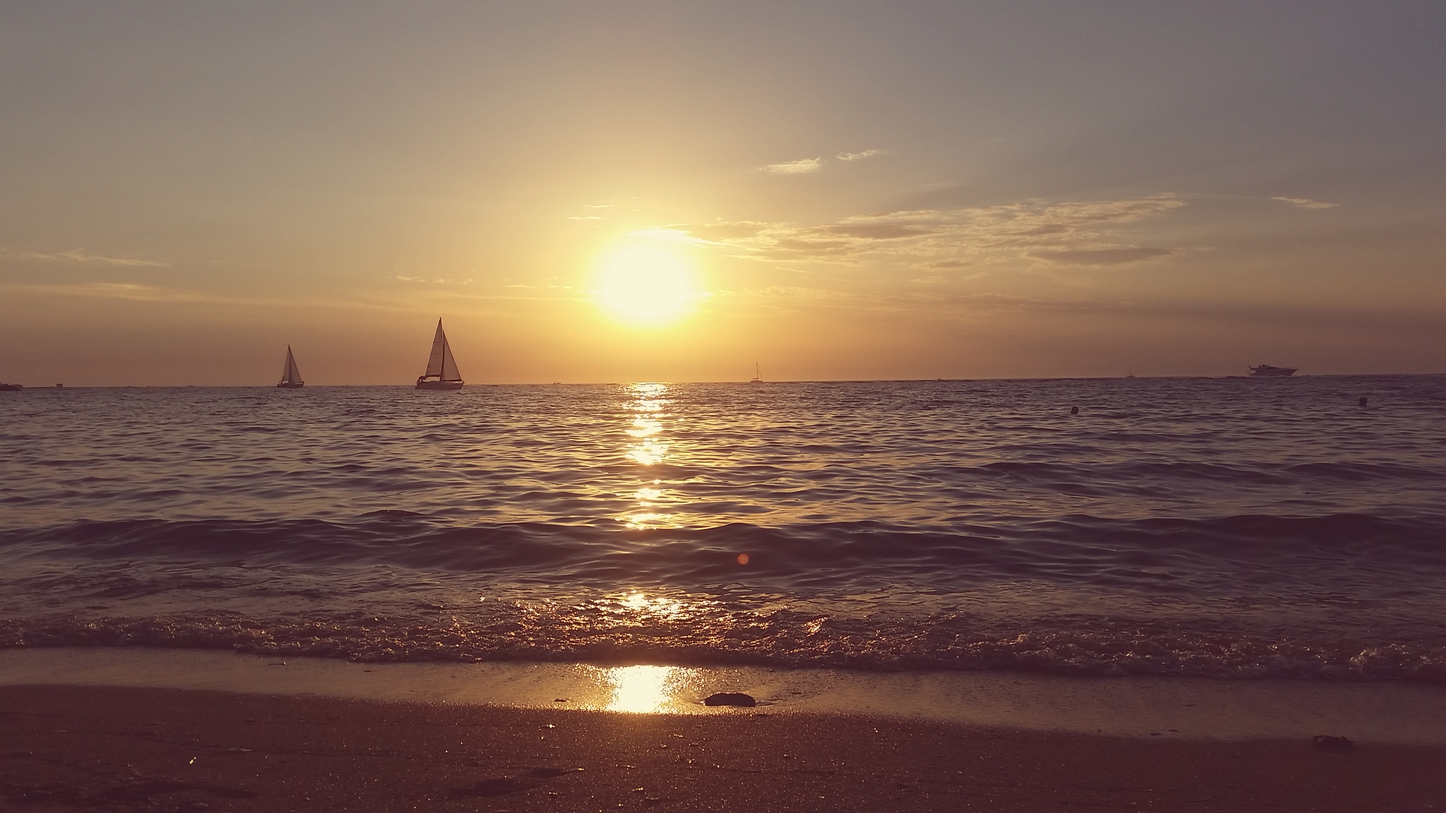
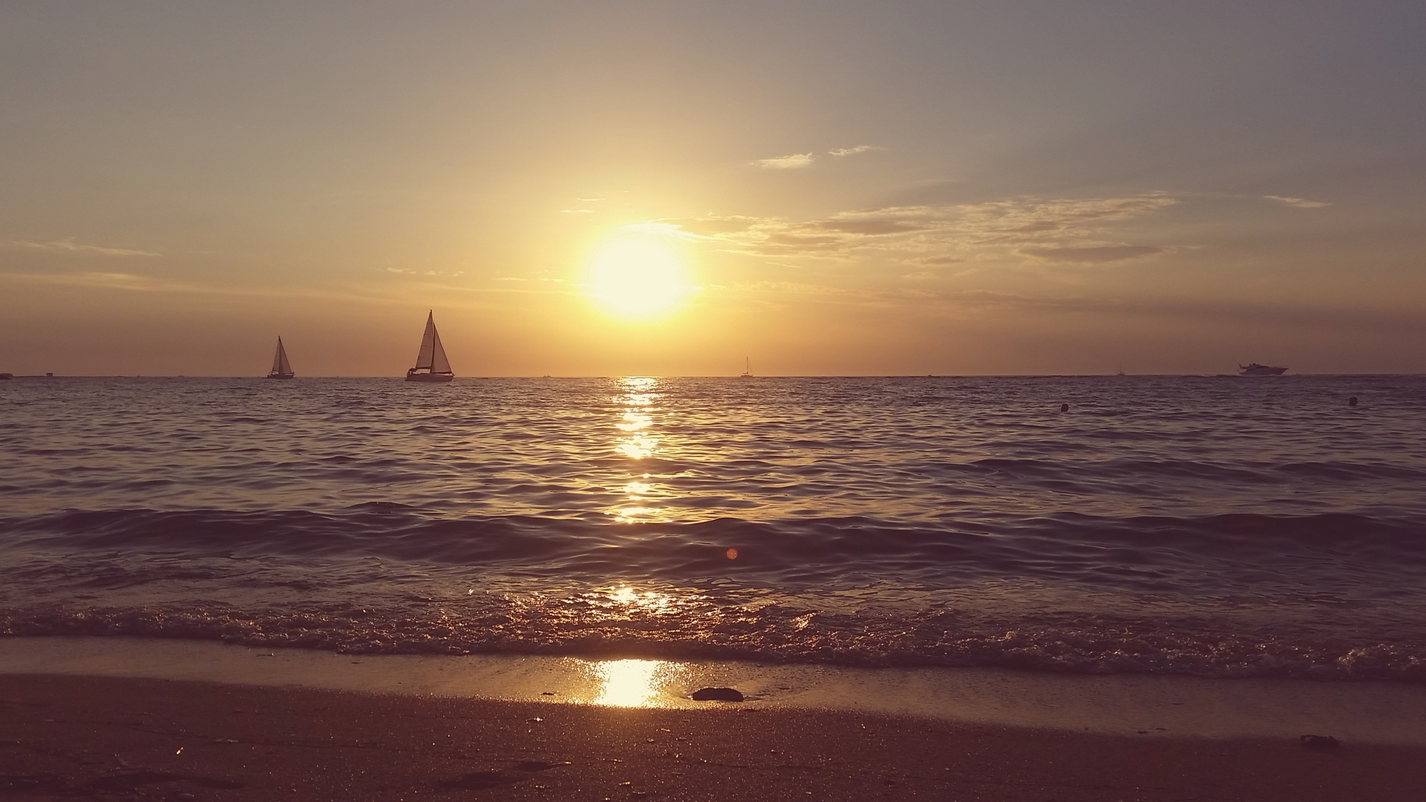
2nd about commit

diff --git a/style.css b/style.css
@@ -107,8 +107,9 @@ nav a:hover {
 }
 
 .about {
-    background-image: url('images/1568654879784.jpg');
-    height: 100%;
+    background-image: url('images/20160819_191000.jpg');
+    height: 100vh;
+    width: 100%;
     background-size: cover;
     display: flex;
 background-position: center;
